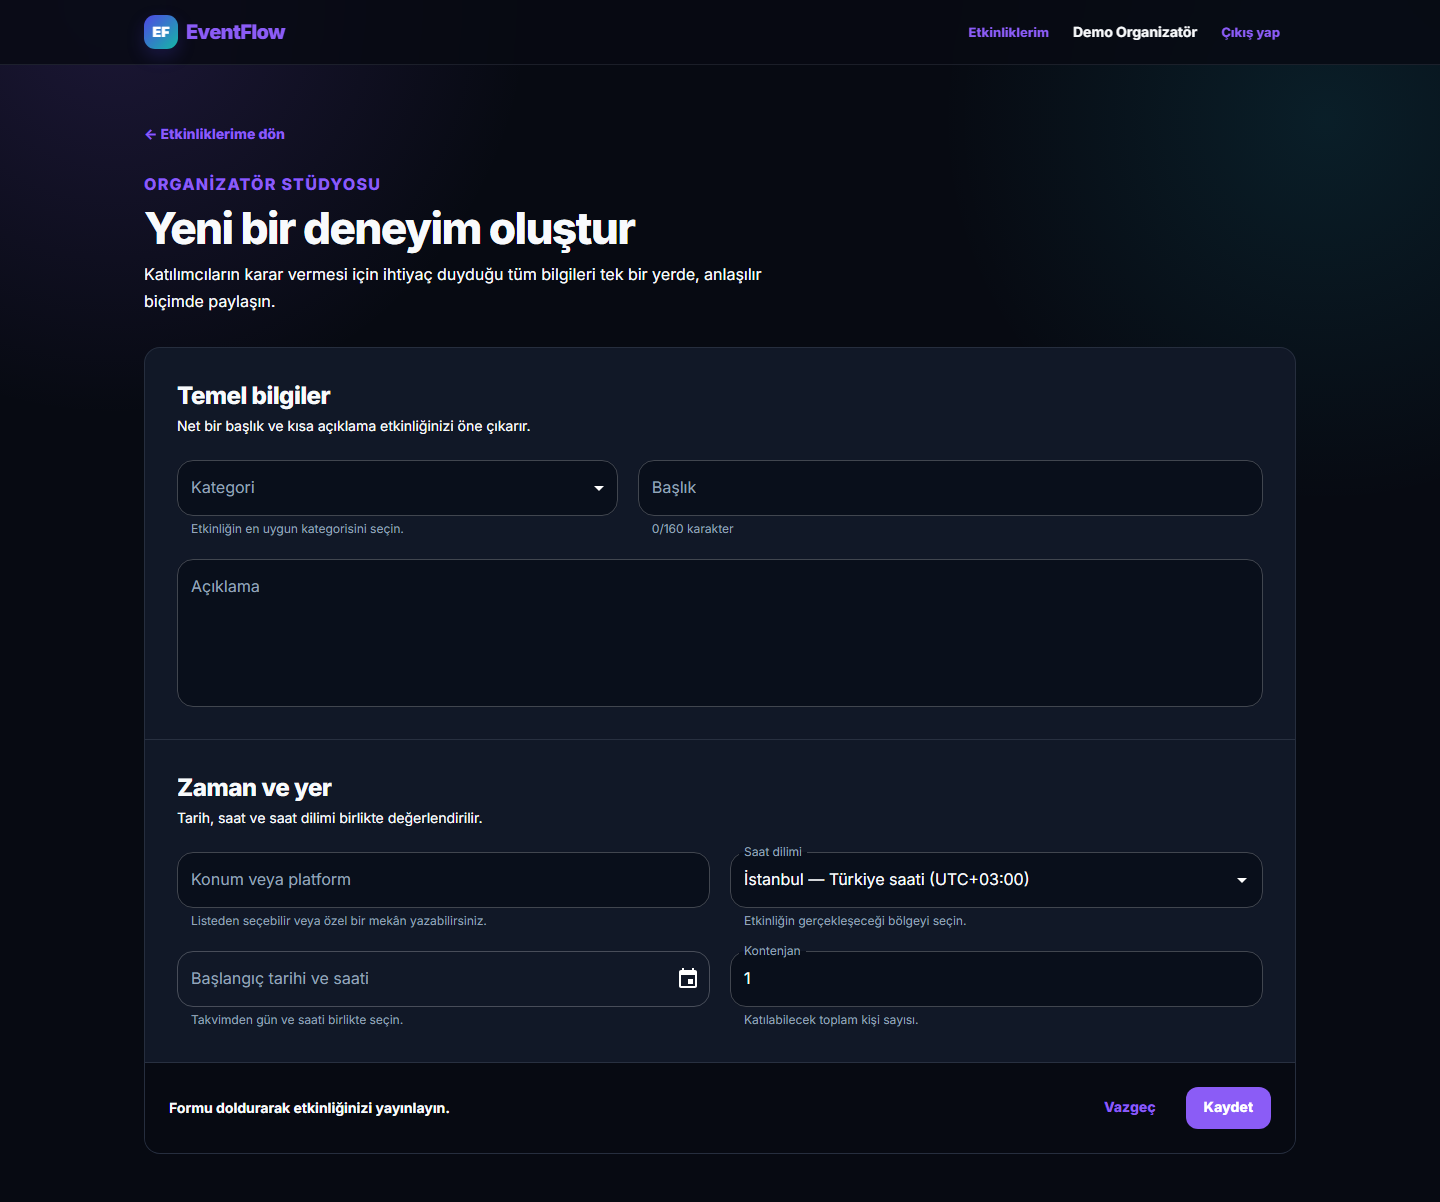
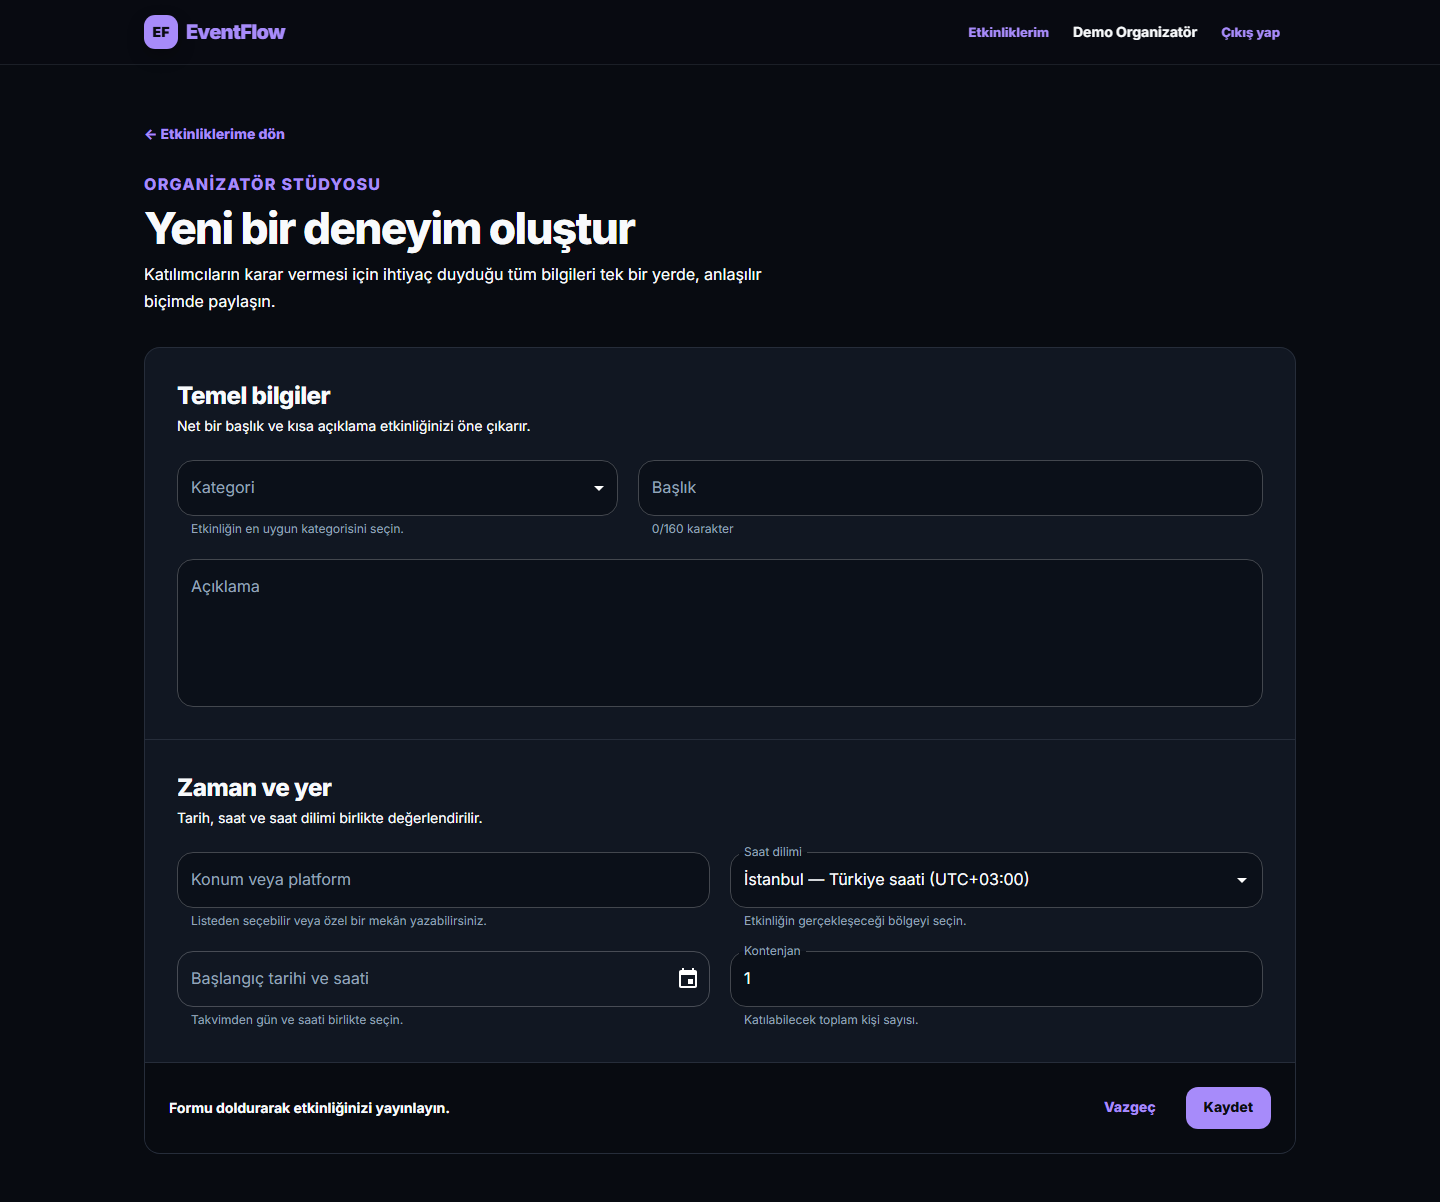
docs(ui): document refined dark interface

diff --git a/docs/P0_ACCEPTANCE_MATRIX.md b/docs/P0_ACCEPTANCE_MATRIX.md
@@ -137,8 +137,8 @@ Durum anahtarı: `⬜ Bekliyor` · `🟡 Devam ediyor` · `✅ Kanıtlandı` · 
 | Backend tam test          | `uv run pytest --cov=app --cov-report=term-missing`                                            | 124/124 geçti; toplam branch coverage `%92`                                                              |
 | Frontend kalite           | Peer, Prettier, Markdownlint, ESLint ve TypeScript                                             | Tüm workspace kapıları temiz                                                                             |
 | Frontend component test   | `pnpm test`                                                                                    | 11 dosyada 28/28 test geçti; cursor, state, auth-race, timezone, koyu tema ve kategori renkleri dahil    |
-| Frontend production build | `pnpm build` ve Docker multi-stage build                                                       | Geçti; ana giriş `315.17 kB` (`100.70 kB` gzip), form lazy chunk'ı `268.49 kB` (`82.91 kB` gzip)         |
-| Görsel/UX regresyonu      | Masaüstü + mobil ekran görüntüsü, Türkçe tarih seçici ve kayıt geri bildirimi                  | Koyu tema, kategori renkleri, yeni form, konum/saat dilimi seçimleri ve kayıt yönlendirmesi doğrulandı   |
+| Frontend production build | `pnpm build` ve Docker multi-stage build                                                       | Geçti; ana giriş `315.33 kB` (`100.67 kB` gzip), form lazy chunk'ı `268.50 kB` (`82.90 kB` gzip)         |
+| Görsel/UX regresyonu      | Keşif, auth, organizer ve form için masaüstü + mobil ekran görüntüsü                           | Düz koyu yüzeyler, kategori renkleri, sade auth, bilgi hiyerarşisi ve responsive form doğrulandı         |
 | P0 browser journey        | Gerçek production Compose üzerinde desktop Chrome + Pixel 7                                    | 2/2 geçti; organizer, two-tab conflict, iki attendee, full/cancel/rebook, role guard ve request ID dahil |
 | Temiz Compose startup     | Volume sıfırlama + `up -d --build --wait`                                                      | Migrate/seed exit `0`; bütün servisler healthy; UID `10001/101`                                          |
 | Seed ve veri bütünlüğü    | İkinci seed + global reservation counter sorgusu                                               | Seed `2\|6\|6\|2`; active reservation/counter mismatch `0`                                               |
